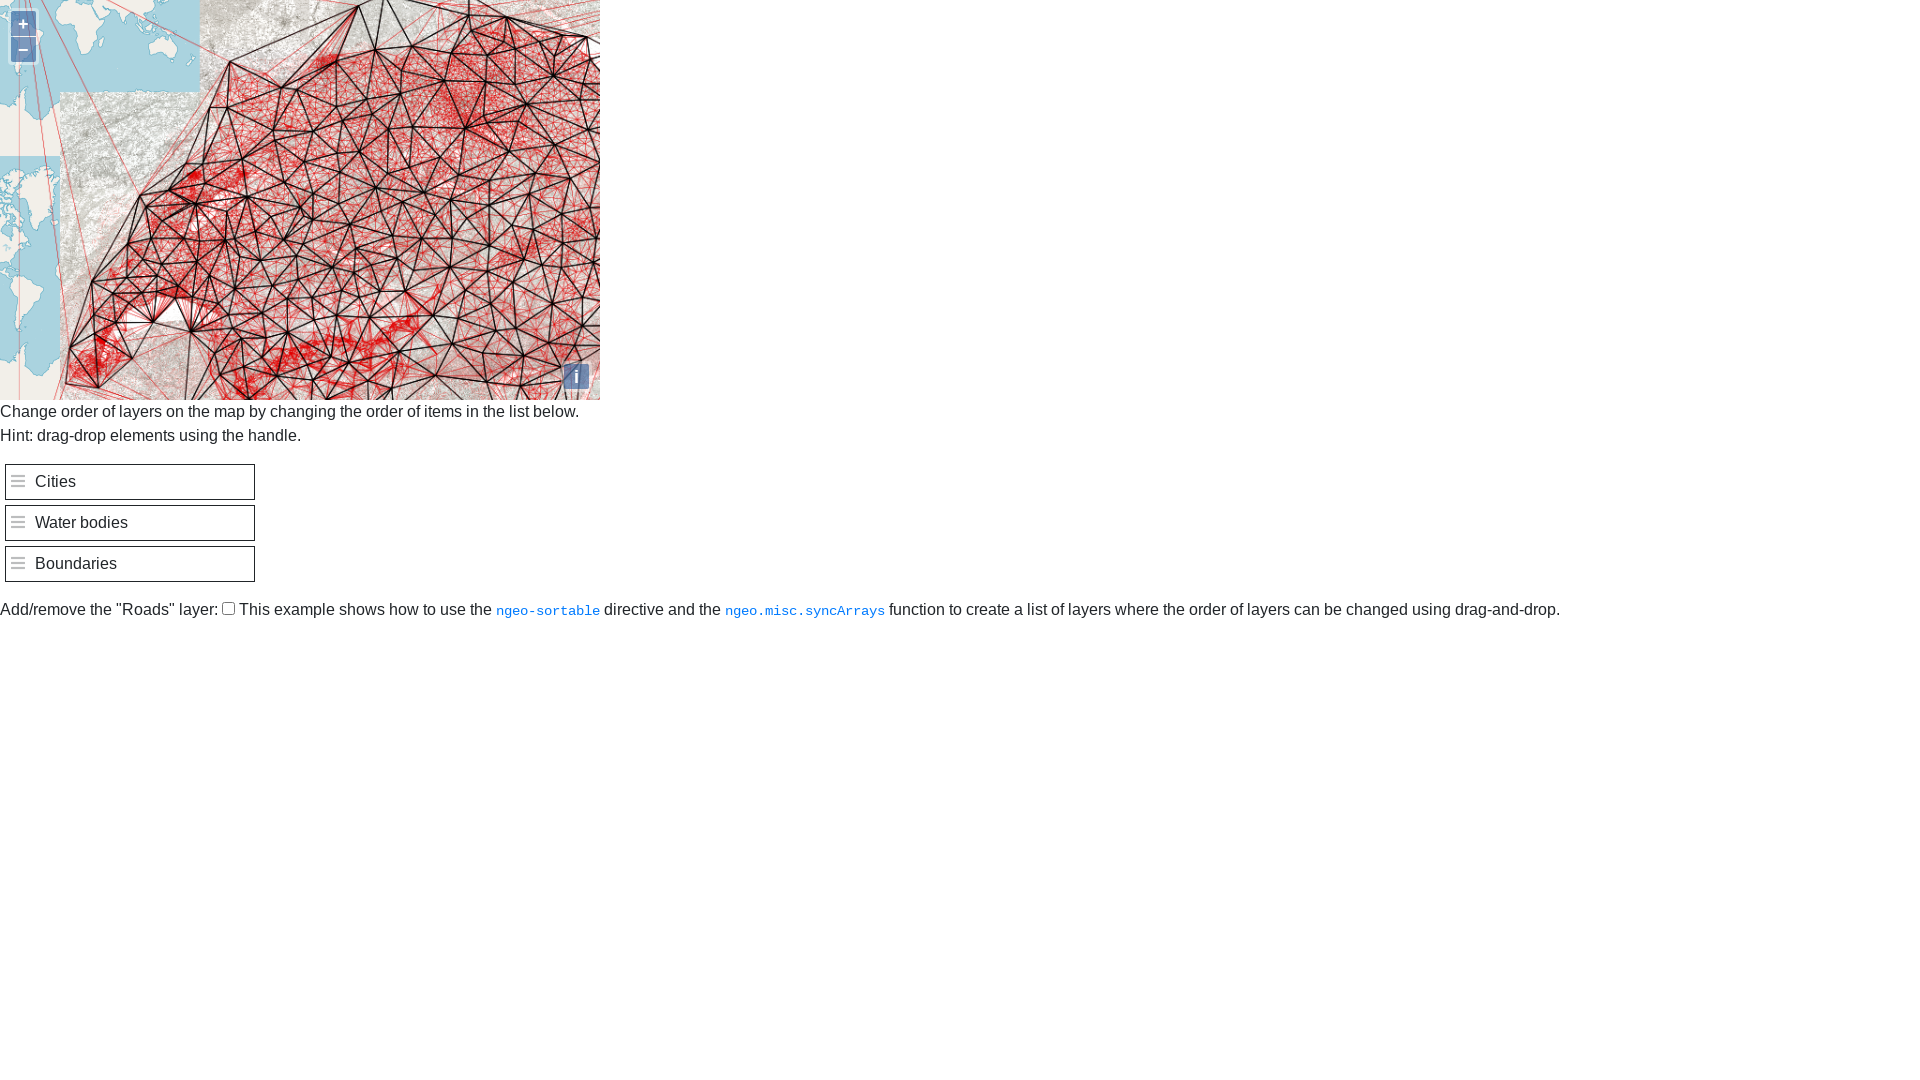
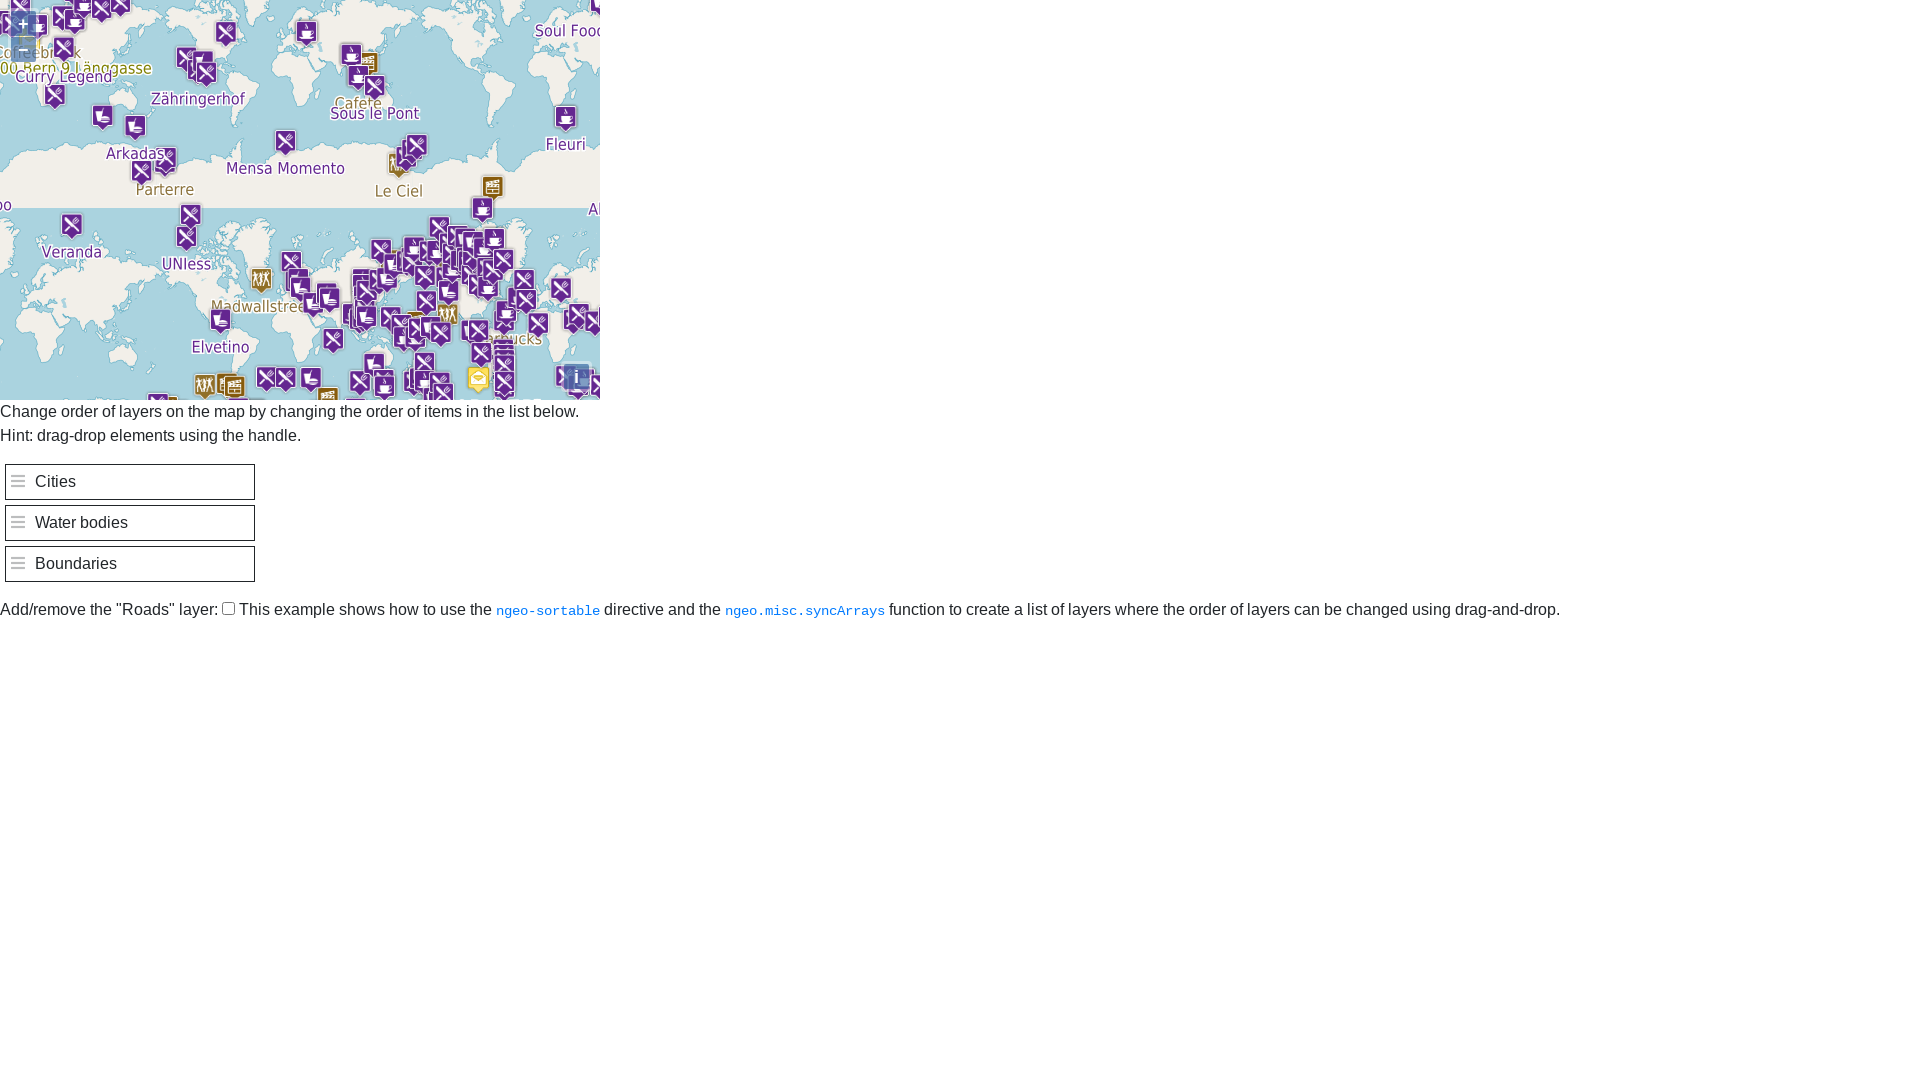
Fix CI

Changed region(s): [[0.0, 0.0, 0.3125, 0.3972]]

diff --git a/examples/layerorder.js b/examples/layerorder.js
@@ -31,7 +31,9 @@ import EPSG2056 from '@geoblocks/proj/src/EPSG_2056.js';
 import olMap from 'ol/Map.js';
 import olView from 'ol/View.js';
 import olLayerTile from 'ol/layer/Tile.js';
-import olSourceTileWMS from 'ol/source/TileWMS.js';
+import olLayerImage from 'ol/layer/Image.js';
+import olSourceWMS from 'ol/source/ImageWMS.js';
+import {MAPSERVER_PROXY} from './url.js';
 
 /** @type {angular.IModule} **/
 const module = angular.module('app', ['gettext', ngeoMapModule.name, ngeoMiscSortableComponent.name]);
@@ -51,30 +53,39 @@ function MainController($scope) {
   asitvd.set('name', 'asitvd');
 
   /** @type {import("ol/layer/Tile.js").default} */
-  const boundaries = new olLayerTile({
-    source: new olSourceTileWMS({
-      url: 'https://wms.geo.admin.ch',
-      params: {'LAYERS': 'ch.swisstopo.swissboundaries3d-gemeinde-flaeche.fill'},
+  const boundaries = new olLayerImage({
+    source: new olSourceWMS({
+      url: MAPSERVER_PROXY,
+      params: {
+        'ogcserver': 'Main PNG',
+        'LAYERS': 'post_office',
+      },
       serverType: 'mapserver',
     }),
   });
   boundaries.set('name', 'Boundaries');
 
   /** @type {import("ol/layer/Tile.js").default} */
-  const waterBodies = new olLayerTile({
-    source: new olSourceTileWMS({
-      url: 'https://wms.geo.admin.ch',
-      params: {'LAYERS': 'ch.swisstopo.geologie-gravimetrischer_atlas'},
+  const waterBodies = new olLayerImage({
+    source: new olSourceWMS({
+      url: MAPSERVER_PROXY,
+      params: {
+        'ogcserver': 'Main PNG',
+        'LAYERS': 'entertainment',
+      },
       serverType: 'mapserver',
     }),
   });
   waterBodies.set('name', 'Water bodies');
 
   /** @type {import("ol/layer/Tile.js").default} */
-  const cities = new olLayerTile({
-    source: new olSourceTileWMS({
-      url: 'https://wms.geo.admin.ch',
-      params: {'LAYERS': 'ch.swisstopo.dreiecksvermaschung'},
+  const cities = new olLayerImage({
+    source: new olSourceWMS({
+      url: MAPSERVER_PROXY,
+      params: {
+        'ogcserver': 'Main PNG',
+        'LAYERS': 'sustenance',
+      },
       serverType: 'mapserver',
     }),
   });
@@ -89,7 +100,7 @@ function MainController($scope) {
       projection: EPSG2056,
       resolutions: [1000, 500, 200, 100, 50, 20, 10, 5, 2.5, 2, 1, 0.5],
       center: [2600000, 1200000],
-      zoom: 1,
+      zoom: 9,
     }),
   });
 
@@ -99,10 +110,13 @@ function MainController($scope) {
    * @type {import("ol/layer/Tile.js").default}
    * @private
    */
-  this.roads_ = new olLayerTile({
-    source: new olSourceTileWMS({
-      url: 'https://wms.geo.admin.ch',
-      params: {'LAYERS': 'ch.bafu.laerm-strassenlaerm_tag'},
+  this.roads_ = new olLayerImage({
+    source: new olSourceWMS({
+      url: MAPSERVER_PROXY,
+      params: {
+        'ogcserver': 'Main PNG',
+        'LAYERS': 'osm_scale',
+      },
       serverType: 'mapserver',
     }),
   });
